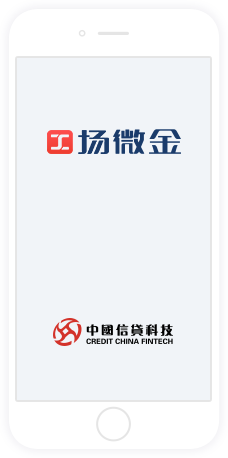
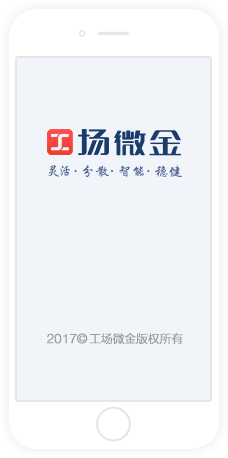
update

diff --git a/apps/p2p-web/aboutus/index.html b/apps/p2p-web/aboutus/index.html
@@ -46,9 +46,6 @@
                     <a class="parnter-item" href="http://www.hsbank.com.cn/">
                         <img src="images/logo-hs.png">
                     </a>
-                    <a class="parnter-item" href="http://www.creditchina.hk/">
-                        <img src="images/logo-xd.png">
-                    </a>
                     <a class="parnter-item" href="http://www.chedai.com/">
                         <img src="images/logo-cd.png">
                     </a>

diff --git a/apps/p2p-web/lib/templates/footer.swig.html b/apps/p2p-web/lib/templates/footer.swig.html
@@ -52,7 +52,6 @@
         <div class="row-2">
             合作机构：
             <a href="http://www.ucf.cn/index.shtml" target="_blank">联合创业担保</a>
-            <a href="http://www.creditchina.hk/" target="_blank">中國信貸科技</a>
             <a href="http://www.hsbank.com.cn/" target="_blank">徽商银行</a>
         </div>
 
